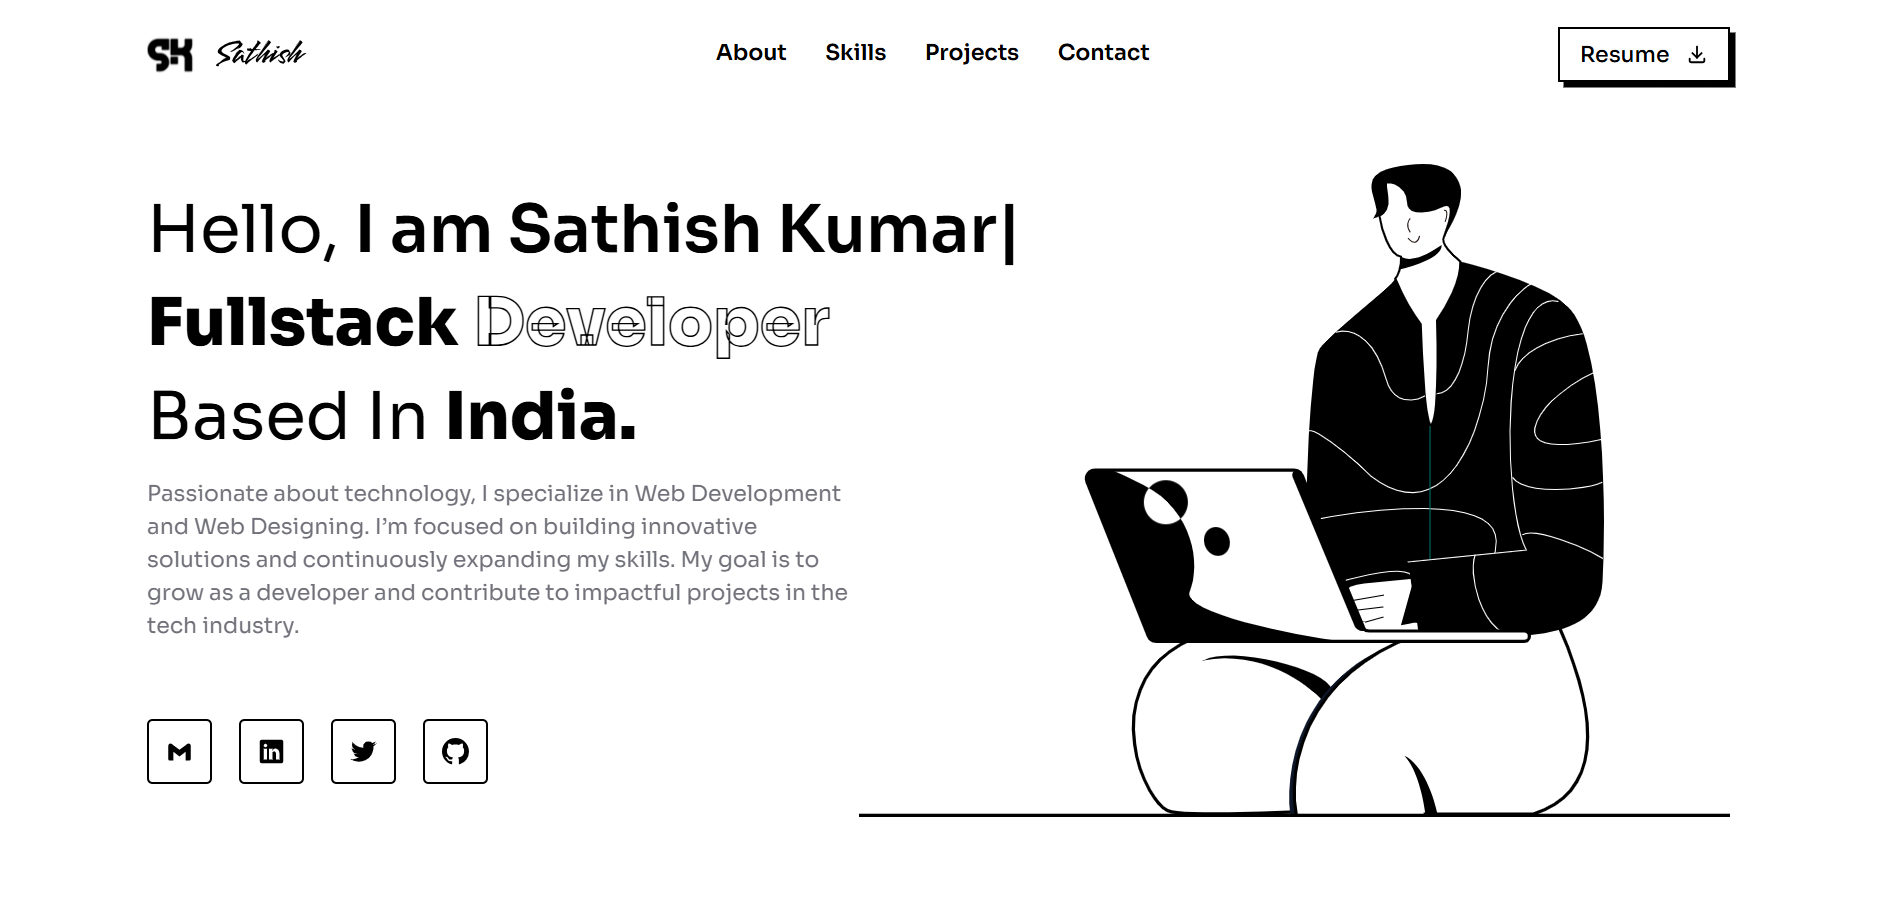
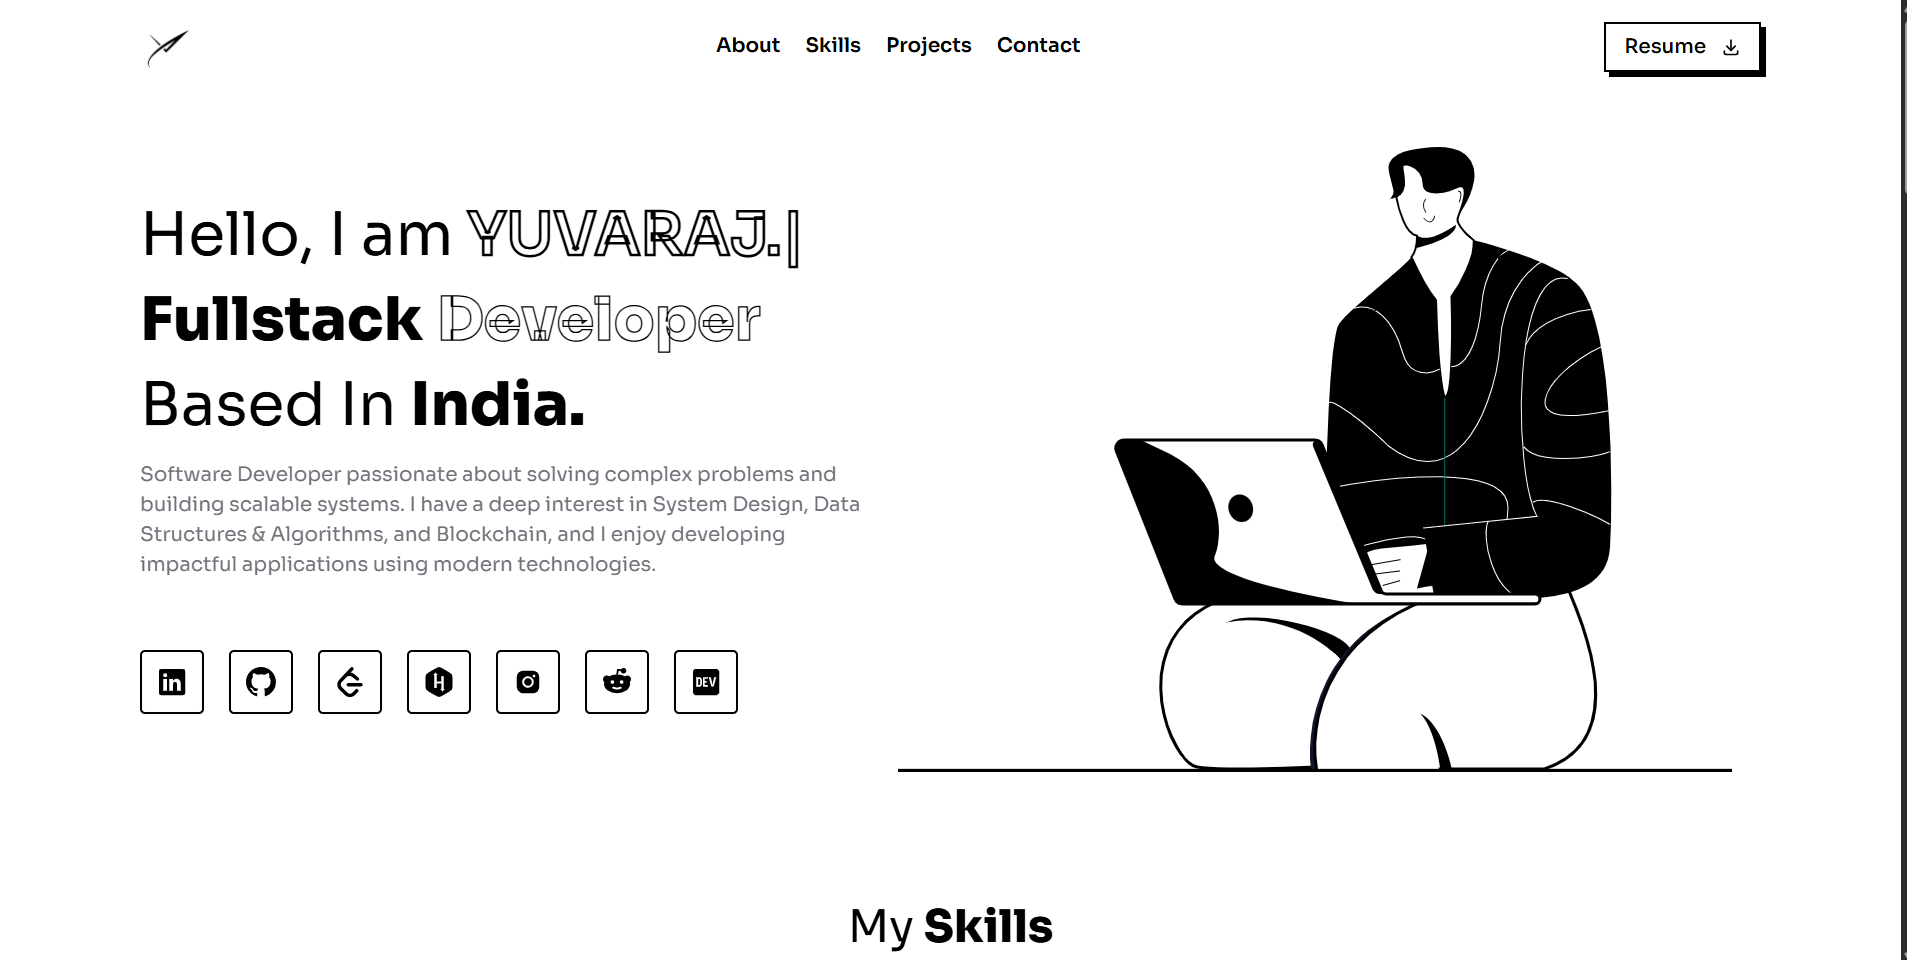
final

diff --git a/index.html b/index.html
@@ -4,27 +4,27 @@
     <meta charset="UTF-8" />
     <meta name="viewport" content="width=device-width, initial-scale=1.0" />
     
-    <title>SK | Full Stack Developer Portfolio</title>
-    <meta name="description" content="Welcome to SK's portfolio – A full stack developer showcasing projects, skills, and experience in web development, UI/UX design, and more.">
+    <title>YUVI | Full Stack Developer Portfolio</title>
+    <meta name="description" content="Welcome to YUVI's portfolio – A full stack developer showcasing projects, skills, and experience in web development, UI/UX design, and more.">
     
-    <link rel="icon" type="image/png" href="/assets/favicon.png" />
+    <link rel="icon" type="image/png" href="/assets/my-icon.png" />
     <meta name="theme-color" content="#000000" />
     
     <!-- Open Graph Meta Tags -->
-    <meta property="og:title" content="SK | Full Stack Developer Portfolio" />
-    <meta property="og:description" content="Explore SK's projects, skills, and experience in web development." />
+    <meta property="og:title" content="YUVI | Full Stack Developer Portfolio" />
+    <meta property="og:description" content="Explore YUVI's projects, skills, and experience in web development." />
     <meta property="og:image" content="/assets/preview.png" />
-    <meta property="og:url" content="https://sk-illustration-portfolio.netlify.app/" />
+    <meta property="og:url" content="https://yuvarajdev.vercel.app/" />
     <meta property="og:type" content="website" />
 
     <!-- Twitter Meta Tags -->
     <meta name="twitter:card" content="summary_large_image" />
-    <meta name="twitter:title" content="SK | Full Stack Developer Portfolio" />
-    <meta name="twitter:description" content="Explore SK's projects, skills, and experience in web development." />
+    <meta name="twitter:title" content="YUVI | Full Stack Developer Portfolio" />
+    <meta name="twitter:description" content="Explore YUVI's projects, skills, and experience in web development." />
     <meta name="twitter:image" content="/assets/preview.png" />
 
     <!-- Canonical URL -->
-    <link rel="canonical" href="https://sk-illustration-portfolio.netlify.app/" />
+    <link rel="canonical" href="https://yuvarajdev.vercel.app/" />
   </head>
   <body>
     <div id="root"></div>
